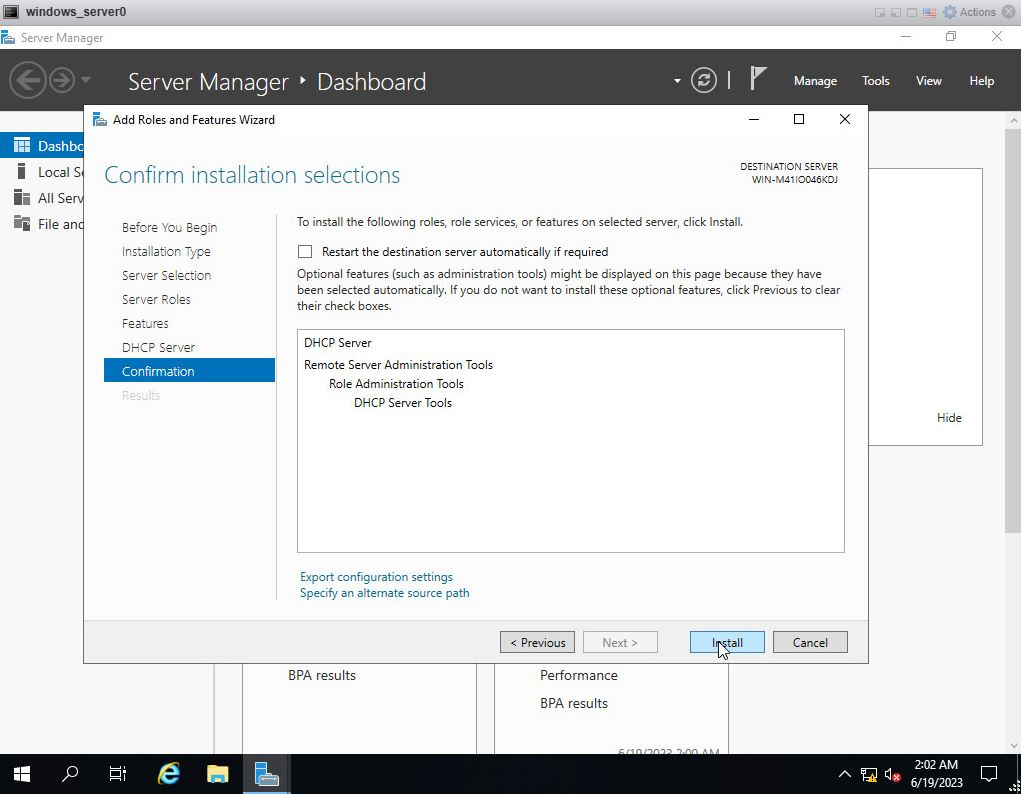
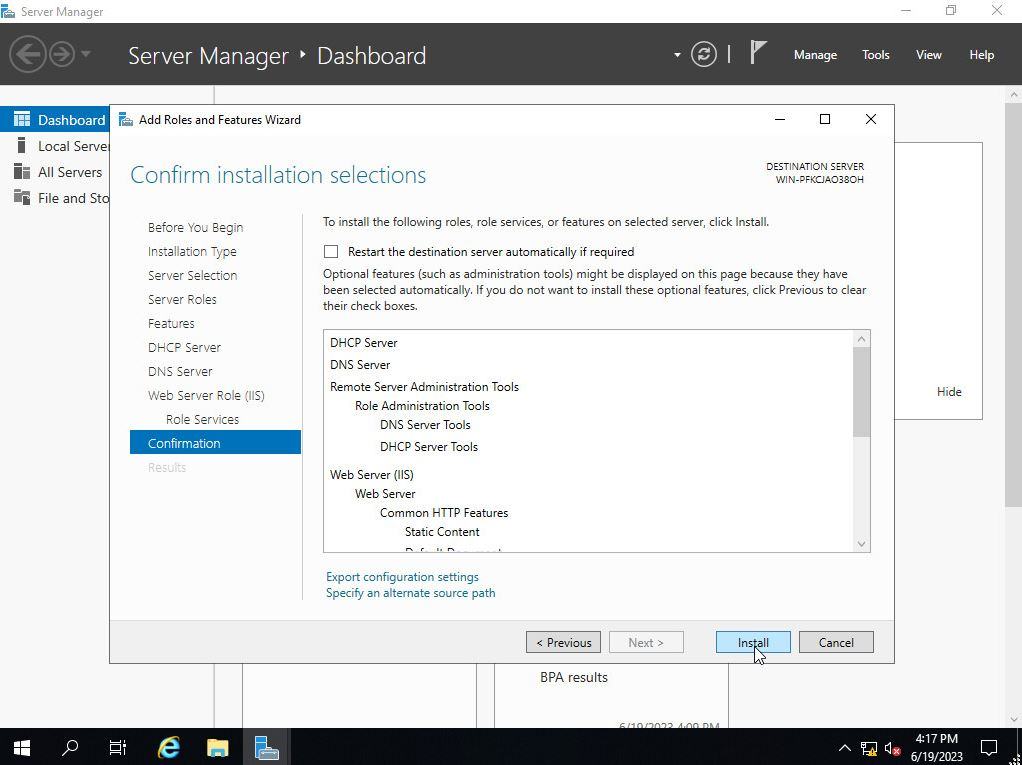
windows server

diff --git a/firstiIsoVM.md b/firstiIsoVM.md
@@ -1,23 +1,49 @@
-# Windows server VM on isolated network
-This demonstration uses ESXI and PFSense to configure a windows server VM on an isolated network. A homelab is usually primarily built as a learning environnement, so you may want to play with networks that do not use PFSense
+# Windows server VM on isolated network 
+When it comes to managing the core of your network, PFSense is an excellent choice. It's simple to configure, easy to understand, and does everything you'll need.
 
-The idea here is to show how you can add network segments that are managed by non-pfsense systems. Access between the windows segment and the other interfaces can be managed using some simple firewall rules
+However, in a laboratory environment, you might want to experiment with different network stacks and technologies. This guide focuses on deploying a Windows Server in a way that allows it to provide network services (such as DHCP and DNS), while still being managed by the firewall within your PFSense network.
 
-We are going to use windows server as the DHCP server on LAN3
+We are also building a IIS webserver on Windows Server to help demonstrate the firewall rules
 
-We are also going to deploy an IIS webserver, and create some firewall rules to control access from other interfaces
-        We will set up a windows server instance on LAN3
+*It's important to note that isolating Windows Server it in this manner is **Not Required** (you could just place it on LAN). The example provided here specifically addresses scenarios where the server is responsible for services that are typically handled by PFSense (such as DHCP and DNS).*
 
-        We will then set up DHCP and an IIS webserver on the Windows Server, and create firewall rules allowing only port 80 and 443 traffic from LAN2.
+We will be doing the following:
+1. Configure PFSense interface
+1. Build a Windows VM
+2. Install Windows Server
+3. Enable Windows Services (DHCP, DNS, & IIS/webserver)
+5. Configure PFsense firewall rules
+6. Test network
 
-        We will then plug a device into LAN3. We will demonstrate the the windows DHCP server server, and demonstrate the connectivity to other subnets
-
-        We will then connect to the IIS webserver 
 
 ## Requirements
 1. Completed the [Server & Hypervisor Setup Instructions](firstConfig.md) 
 2. Completed the [PFSense Setup instructions](firstPFSense.md)
 3. Windows server ISO on your PC
+
+## **Configure PFSense interface**
+- ### Interface settings
+    LAN3 should be unused so far, but we are going to quickly make sure everything is ready on the PFSense side before we build our Windows Server
+
+    1. browse to the IP address / hostname of your PFSense VM
+    2. on the top menu bar, Interfaces > LAN3 ([screenshot](https://github.com/mynah22/Homelab-Guides/raw/main/screenshots/firstConfig/iso48.jpg)
+    1. Options  ([screenshot](https://github.com/mynah22/Homelab-Guides/raw/main/screenshots/firstConfig/iso46.jpg))
+        - Enable interface
+        - Static IPv4
+            - *Devices on this subnet attempting to send packets outside of the subnet will need the IP of the gateway (router). Since PFSense will be the router, we are setting it's IP here.*
+        - Set static IP and subnet (I went with 10.0.3.0/24)
+        - Click 'save'
+    1. Click 'apply' to save interface configuration ([screenshot](https://github.com/mynah22/Homelab-Guides/raw/main/screenshots/firstConfig/iso47.jpg))
+- ### Firewall rules
+    1. Firewall > rules ([screenshot](https://github.com/mynah22/Homelab-Guides/raw/main/screenshots/firstConfig/iso49.jpg))
+    1. Click 'LAN3' ([screenshot](https://github.com/mynah22/Homelab-Guides/raw/main/screenshots/firstConfig/iso50.jpg))
+    1. You should see no rules under LAN3. If you created any, delete them now ([screenshot](https://github.com/mynah22/Homelab-Guides/raw/main/screenshots/firstConfig/iso51.jpg))
+    1. we will be creating firewall rules once the windows server is up and running
+- ### DHCP config
+    1. Services > DHCP Server ([screenshot](https://github.com/mynah22/Homelab-Guides/raw/main/screenshots/firstConfig/iso52.jpg))
+    1. Click 'LAN3' ([screenshot](https://github.com/mynah22/Homelab-Guides/raw/main/screenshots/firstConfig/iso53.jpg))
+    1. Make sure 'Enable DHCP server on LAN3 interface' is UNCHECKED. Scroll down and click 'Save' ([screenshot](https://github.com/mynah22/Homelab-Guides/raw/main/screenshots/firstConfig/iso54.jpg))
+
 
 ## **Build Windows server VM**
 - ### **upload Windows Server ISO to ESXI** 
@@ -40,13 +66,14 @@ We are also going to deploy an IIS webserver, and create some firewall rules to 
         - memory- 16MB (16384 MB)
         - hard disk 1- 100 GB
         - network adapter 1- LAN3
-        - CD/DVD Drive 1- Datastore ISO file ([screenshot]((https://github.com/mynah22/Homelab-Guides/raw/main/screenshots/firstConfig/iso10))
+        - CD/DVD Drive 1- Datastore ISO file ([screenshot](https://github.com/mynah22/Homelab-Guides/raw/main/screenshots/firstConfig/iso10))
         - click 'Next ([screenshot](https://github.com/mynah22/Homelab-Guides/raw/main/screenshots/firstConfig/iso8.jpg))
     6. Review details, click 'Finish' ([screenshot](https://github.com/mynah22/Homelab-Guides/raw/main/screenshots/firstConfig/iso9.jpg))
     7. after a short delay you will see the new VM under Virtual Machines. Click the VM name to open it's configuration page ([screenshot](https://github.com/mynah22/Homelab-Guides/raw/main/screenshots/firstConfig/iso11.jpg))
     8. click the console preview window to start the VM ([screenshot](https://github.com/mynah22/Homelab-Guides/raw/main/screenshots/firstConfig/iso12.jpg))
 
-- ### **Install Windows Server**
+## **Install & Configure Windows Server**
+- ### Install windows server to VM
     1. windows server should boot (screenshots [1](https://github.com/mynah22/Homelab-Guides/raw/main/screenshots/firstConfig/iso13.jpg) [2](https://github.com/mynah22/Homelab-Guides/raw/main/screenshots/firstConfig/iso14.jpg))
     2. change language, time, and keyboard settings if needed, click 'Next' ([screenshot](https://github.com/mynah22/Homelab-Guides/raw/main/screenshots/firstConfig/iso15.jpg))
     3. clcik 'Install now' ([screenshot](https://github.com/mynah22/Homelab-Guides/raw/main/screenshots/firstConfig/iso16.jpg))
@@ -58,19 +85,69 @@ We are also going to deploy an IIS webserver, and create some firewall rules to 
     9. Windows should install ([screenshot](https://github.com/mynah22/Homelab-Guides/raw/main/screenshots/firstConfig/iso22.jpg))
     10. after installation, windows should boot (screenshots [1](https://github.com/mynah22/Homelab-Guides/raw/main/screenshots/firstConfig/iso23.jpg) [2](https://github.com/mynah22/Homelab-Guides/raw/main/screenshots/firstConfig/iso24.jpg))
     9. Set admin password, click 'Finish' ([screenshot](https://github.com/mynah22/Homelab-Guides/raw/main/screenshots/firstConfig/iso25.jpg))
-- ### **Set up windows services**
+- ### Install services
     1. You need to press Ctrl + Alt + Delete on the guest (windows server) in order to log in. To do this, Right Click the top bar of the VM console window, then Guest os > send keys > Ctrl-Atl-Delete ([screenshot](https://github.com/mynah22/Homelab-Guides/ raw/main/screenshots/firstConfig/iso26.jpg))
     9. Type the administrator password you set above, ENTER to log in ([screenshot](https://github.com/mynah22/Homelab-Guides/raw/main/screenshots/firstConfig/iso27.jpg))
     9. It will take a moment for Windows Server to load. Server Manager will be automatically launched, and you will be presented with a pop-up informing you about Windows Admin Center. Check 'Don't show this message again' and click X to close the pop up  (screenshots [1](https://github.com/mynah22/Homelab-Guides/raw/main/screenshots/firstConfig/iso28.jpg) [2](https://github.com/mynah22/Homelab-Guides/raw/main/screenshots/firstConfig/iso29.jpg) [3](https://github.com/mynah22/Homelab-Guides/raw/main/screenshots/firstConfig/iso30.jpg))
-    9. click 'add roles and features' ([screenshot](https://github.com/mynah22/Homelab-Guides/raw/main/screenshots/firstConfig/iso31.jpg))
+    9. click 'add roles and features' (it may take a minute for this to be available) ([screenshot](https://github.com/mynah22/Homelab-Guides/raw/main/screenshots/firstConfig/iso31.jpg))
     10. click 'next' on the 'Before you begin' screen ([screenshot](https://github.com/mynah22/Homelab-Guides/raw/main/screenshots/firstConfig/iso32.jpg))
     10. click 'next' to proceed with role-based installation ([screenshot](https://github.com/mynah22/Homelab-Guides/raw/main/screenshots/firstConfig/iso33.jpg))
     10. click 'next' to install to this windows server instance ([screenshot](https://github.com/mynah22/Homelab-Guides/raw/main/screenshots/firstConfig/iso34.jpg))
     10. click the checkbox next to the DHCP server role, then click 'add features' (screenshots [1](https://github.com/mynah22/Homelab-Guides/raw/main/screenshots/firstConfig/iso35.jpg) [2](https://github.com/mynah22/Homelab-Guides/raw/main/screenshots/firstConfig/iso36.jpg))
+    10. click the checkbox next to the DNS server role, then click 'add features' (screenshots [1](https://github.com/mynah22/Homelab-Guides/raw/main/screenshots/firstConfig/iso55.jpg) [2](https://github.com/mynah22/Homelab-Guides/raw/main/screenshots/firstConfig/iso56.jpg))
+    10. click the checkbox next to the Web Server (IIS) role, then click 'add features' (screenshots [1](https://github.com/mynah22/Homelab-Guides/raw/main/screenshots/firstConfig/iso57.jpg) [2](https://github.com/mynah22/Homelab-Guides/raw/main/screenshots/firstConfig/iso58.jpg)
     11. click 'Next' [screenshot](https://github.com/mynah22/Homelab-Guides/raw/main/screenshots/firstConfig/iso37.jpg)
     12. click 'Next' without adding any features ([screenshot](https://github.com/mynah22/Homelab-Guides/raw/main/screenshots/firstConfig/iso38.jpg))
     13. click 'Next' on the DHCP server screen ([screenshot](https://github.com/mynah22/Homelab-Guides/raw/main/screenshots/firstConfig/iso39.jpg))
-    13. click 'Install' on the confirmation screen ([screenshot](https://github.com/mynah22/Homelab-Guides/raw/main/screenshots/firstConfig/iso40.jpg))
+    13. click 'Next' on the DNS server screen ([screenshot](https://github.com/mynah22/Homelab-Guides/raw/main/screenshots/firstConfig/iso59.jpg))
+    13. click 'Next' on the Web Server (IIS) screen ([screenshot](https://github.com/mynah22/Homelab-Guides/raw/main/screenshots/firstConfig/iso60.jpg))
+    14. click 'Next' on the Role Services screen ([screenshot](https://github.com/mynah22/Homelab-Guides/raw/main/screenshots/firstConfig/iso61.jpg))
     13. click 'Install' on the confirmation screen. click 'Close' after installation completes (screenshots [1](https://github.com/mynah22/Homelab-Guides/raw/main/screenshots/firstConfig/iso40.jpg) [2](https://github.com/mynah22/Homelab-Guides/raw/main/screenshots/firstConfig/iso41.jpg) [3](https://github.com/mynah22/Homelab-Guides/raw/main/screenshots/firstConfig/iso42.jpg))
-    14. Click the flag icon, then 'complete DHCP configuration' ([screenshot](https://github.com/mynah22/Homelab-Guides/raw/main/screenshots/firstConfig/iso43.jpg))
-    15. Commit, close (screenshots [1](https://github.com/mynah22/Homelab-Guides/raw/main/screenshots/firstConfig/iso44.jpg)) [2](https://github.com/mynah22/Homelab-Guides/raw/main/screenshots/firstConfig/iso45.jpg)))
+- ### Configure Networking
+    We are going to set a static IP for the windows server on the same subnet that we configured for PFSense above
+
+    1. right click start menu > network connections (screenshots [1](https://github.com/mynah22/Homelab-Guides/raw/main/screenshots/firstConfig/iso62.jpg)) [2](https://github.com/mynah22/Homelab-Guides/raw/main/screenshots/firstConfig/iso63.jpg)))
+    2. click 'change adapter options'. Then, right click the Ethernet network and click 'Properties' (screenshots [1](https://github.com/mynah22/Homelab-Guides/raw/main/screenshots/firstConfig/iso65.jpg) [2](https://github.com/mynah22/Homelab-Guides/raw/main/screenshots/firstConfig/iso64.jpg)) 
+    1. click 'Internet Protocol Version 4', then 'Properties' ([screenshot](https://github.com/mynah22/Homelab-Guides/raw/main/screenshots/firstConfig/iso66.jpg))
+    1. IPV4 options ([screenshot](https://github.com/mynah22/Homelab-Guides/raw/main/screenshots/firstConfig/iso67.jpg))
+        - Select the 'use the following IP address' radio button
+        - IP address: this will be the IP of the DNS, DHCP, and IIS server. It must be on the same subnet as the PFSense IP you configured for this interface
+        - Subnet mask: must match the subnet of the PFSense IP
+        - DNS servers: 127.0.0.1, 8.8.8.8
+        - Click 'OK'
+    1. Close windows. You may see a pop up asking if you want to be discoverable on this network - click 'Yes' (screenshots [1](https://github.com/mynah22/Homelab-Guides/raw/main/screenshots/firstConfig/iso68.jpg) [2](https://github.com/mynah22/Homelab-Guides/raw/main/screenshots/firstConfig/iso68.jpg))
+- ### Configure DHCP server
+
+    1. In the Server Manager window, click the flag icon, then 'complete DHCP configuration' ([screenshot](https://github.com/mynah22/Homelab-Guides/raw/main/screenshots/firstConfig/iso43.jpg))
+    2. Commit, close (screenshots [1](https://github.com/mynah22/Homelab-Guides/raw/main/screenshots/firstConfig/iso44.jpg) [2](https://github.com/mynah22/Homelab-Guides/raw/main/screenshots/firstConfig/iso45.jpg))
+    3. under 'Roles and Server Groups', click 'DHCP' ([screenshot](https://github.com/mynah22/Homelab-Guides/raw/main/screenshots/firstConfig/iso70.jpg))
+    4. Right click your server name, then DHCP Manager ([screenshot](https://github.com/mynah22/Homelab-Guides/raw/main/screenshots/firstConfig/iso71.jpg))
+    4. Clicking your server will reveal IPv4 - right click, add new scope([screenshot](https://github.com/mynah22/Homelab-Guides/raw/main/screenshots/firstConfig/iso73.jpg))
+    4. Click 'Next' to begin wizard ([screenshot](https://github.com/mynah22/Homelab-Guides/raw/main/screenshots/firstConfig/iso72.jpg))
+    4. Type a name, click 'Next' to continue ([screenshot](https://github.com/mynah22/Homelab-Guides/raw/main/screenshots/firstConfig/iso74.jpg))
+    5. Enter the IP range you would like the DHCP to assign to,  and subnet settings ([screenshot](https://github.com/mynah22/Homelab-Guides/raw/main/screenshots/firstConfig/iso75.jpg))
+    - *Note: PFSense (the gateway) is on 10.0.3.1, and this server is on 10.0.3.2, so mny range starts at 10.0.3.3, and I've given it 100 IPs*
+    5. We are not configuring any exclusions or a delay. Click 'Next' ([screenshot](https://github.com/mynah22/Homelab-Guides/raw/main/screenshots/firstConfig/iso76.jpg))
+    5. Leave lease duration at default. Click 'Next' ([screenshot](https://github.com/mynah22/Homelab-Guides/raw/main/screenshots/firstConfig/iso77.jpg))
+    5. Leave 'Yes I want to configure these options now' selected. Click 'Next' ([screenshot](https://github.com/mynah22/Homelab-Guides/raw/main/screenshots/firstConfig/iso78.jpg))
+    5. Leave 'Yes I want to configure these options now' selected. Click 'Next' ([screenshot](https://github.com/mynah22/Homelab-Guides/raw/main/screenshots/firstConfig/iso78.jpg))
+    2. Type the IP of PFSense on LAN3, click Add. Click Next (screenshots [1](https://github.com/mynah22/Homelab-Guides/raw/main/screenshots/firstConfig/iso79.jpg) [2](https://github.com/mynah22/Homelab-Guides/raw/main/screenshots/firstConfig/iso80.jpg))
+    5. type a domain name in (not really required, useful for demonstration later). Click Next([screenshot](https://github.com/mynah22/Homelab-Guides/raw/main/screenshots/firstConfig/iso81.jpg))
+    5. Leave WINS servers empty, click next' ([screenshot](https://github.com/mynah22/Homelab-Guides/raw/main/screenshots/firstConfig/iso82.jpg))
+    5. click 'next' to activate scope ([screenshot](https://github.com/mynah22/Homelab-Guides/raw/main/screenshots/firstConfig/iso83.jpg))
+    5. click 'finish' ([screenshot](https://github.com/mynah22/Homelab-Guides/raw/main/screenshots/firstConfig/iso84.jpg))
+    5. You will see your new scope under IPv4 in DHCP manager ([screenshot](https://github.com/mynah22/Homelab-Guides/raw/main/screenshots/firstConfig/iso82.jpg))
+
+- ### Configure DNS server
+
+
+
+
+
+    
+
+
+
+
+
+
